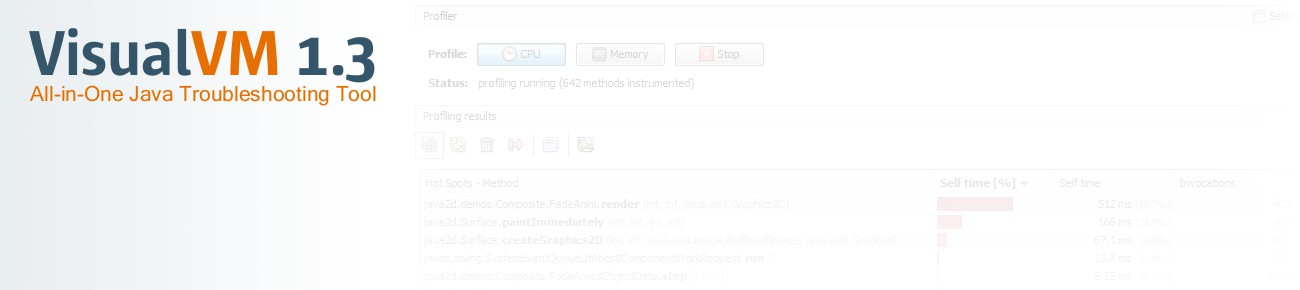
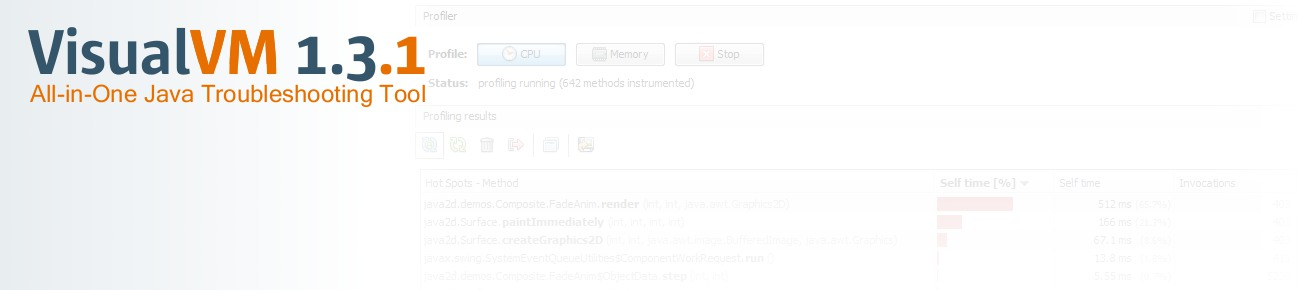
Releasing VisualVM 1.3.1

Changed region(s): [[0.0, 0.0931, 0.3385, 0.3724]]

diff --git a/trunk/www/relnotes13.html b/trunk/www/relnotes13.html
@@ -1,7 +1,7 @@
 <html>
 <head>
 
-    <title>VisualVM 1.3.1 Release Notes</title>
+    <title>VisualVM 1.3 Release Notes</title>
 
     <style>
 
@@ -42,14 +42,14 @@
     <div id="contents_contents">
         <div id="contents_main">
 
-            <h1>VisualVM 1.3.1 Release Notes</h1>
+            <h1>VisualVM 1.3 Release Notes</h1>
 
             <p>
                 VisualVM is a visual tool integrating several commandline JDK tools and lightweight profiling capabilities. Designed for both production and development time use, it further enhances the capability of monitoring and performance analysis for the Java SE platform.
             </p>
 
             <p style="margin-bottom: 15px;">
-                VisualVM 1.3.1 is a bugfix release based on VisualVM 1.3. See the <a href="#changes">Changes In 1.3.1</a> section for list of changes and bugfixes since the VisualVM 1.3.
+                VisualVM 1.3 is a stable release following after VisualVM 1.2.2. See the <a href="#changes">Changes In 1.3</a> section for list of changes and bugfixes since the VisualVM 1.2.2.
                 See the <a href="releases.html">Releases Overview</a> page for detailed overview of all VisualVM and Java VisualVM releases.
             </p>
 
@@ -98,82 +98,6 @@
             </div>
 
             <a name="changes"></a>
-            <h3>Changes In 1.3.1</h3>
-            <div>
-                <p style="margin-top: 5px;">
-                    <b>Features and enhancements:</b><br>
-                    <ul>
-                        <li>Added Java version and vendor information to the application Overview view
-                        </li>
-
-                        <li>Built on NetBeans Platform & profiler 6.9.1
-                        </li>
-                    </ul>
-                </p>
-
-                <p style="margin-top: 5px; margin-bottom: 10px;">
-                    <b>Fixed bugs:</b><br>
-                    <ul>
-                        <li><a href="https://visualvm.dev.java.net/issues/show_bug.cgi?id=397">Issue 397</a>: Overview tab does not have 'Details' and 'Saved data'
-                        </li>
-
-                        <li><a href="https://visualvm.dev.java.net/issues/show_bug.cgi?id=398">Issue 398</a>: BTrace probes are enabled for remote application
-                        </li>
-
-                        <li><a href="https://visualvm.dev.java.net/issues/show_bug.cgi?id=403">Issue 403</a>: [I18N] Show/Hide section checkbox tooltip not from bundle
-                        </li>
-
-                        <li><a href="https://visualvm.dev.java.net/issues/show_bug.cgi?id=405">Issue 405</a>: UnsupportedOperationException when opening remote application
-                        </li>
-
-                        <li><a href="https://visualvm.dev.java.net/issues/show_bug.cgi?id=406">Issue 406</a>: Confusing message in HeapWalker
-                        </li>
-
-                        <li><a href="https://visualvm.dev.java.net/issues/show_bug.cgi?id=407">Issue 407</a>: Bad Tracer charts quality
-                        </li>
-                    </ul>
-                </p>
-
-                <!--p style="margin-top: 5px; margin-bottom: 10px;">
-                    <b>Fixed bugs:</b> <a href="https://visualvm.dev.java.net/issues/buglist.cgi?Submit+query=Submit+query&issue_type=DEFECT&component=visualvm&resolution=FIXED&target_milestone=1.3.1&email1=&emailtype1=exact&emailassigned_to1=1&email2=&emailtype2=exact&emailreporter2=1&issueidtype=include&issue_id=&changedin=&votes=&chfield=creation_ts&chfieldfrom=&chfieldto=Now&chfieldvalue=&short_desc=&short_desc_type=fulltext&long_desc=&long_desc_type=fulltext&issue_file_loc=&issue_file_loc_type=fulltext&status_whiteboard=&status_whiteboard_type=fulltext&field0-0-0=noop&type0-0-0=noop&value0-0-0=&cmdtype=doit&order=Reuse+same+sort+as+last+time">IssueTracker query</a>.
-                </p-->
-            </div>
-
-            <a name="known_problems"></a>
-            <h3>Known Problems</h3>
-            <div>
-                <ul>
-                    <li><a href="https://visualvm.dev.java.net/issues/show_bug.cgi?id=224">Issue 224</a>: Cannot memory profile JBoss AS 4.2.3.GA
-                    </li>
-
-                    <li><a href="https://visualvm.dev.java.net/issues/show_bug.cgi?id=148">Issue 148</a>: VisualVM hangs when lost remote connection
-                    </li>
-
-                    <li><a href="https://visualvm.dev.java.net/issues/show_bug.cgi?id=120">Issue 120</a>: JMX application datasource cannot be reused on application restart
-                    </li>
-
-                    <li><a href="https://visualvm.dev.java.net/issues/show_bug.cgi?id=72">Issue 72</a>: Running application sometimes not recognized
-                    </li>
-                </ul>
-
-                <p>
-                    <b>Warning:</b> due to a JDK bug taking heap dump may crash the target JVM if it's running JDK 6 Update 16+ using Concurrent Mark Sweep garbage collector (CMS). A workaround is to use a different GC (for example using <code>-XX:+UseParallelGC</code>). Similar problem seems to affect also the JDK 7 devbuilds.
-                </p>
-
-                <p style="margin-bottom: 15px;">To view all known problems please use this <a href="https://visualvm.dev.java.net/issues/buglist.cgi?Submit+query=Submit+query&issue_type=DEFECT&component=visualvm&subcomponent=code&issue_status=NEW&issue_status=STARTED&issue_status=REOPENED&email1=&emailtype1=exact&emailassigned_to1=1&email2=&emailtype2=exact&emailreporter2=1&issueidtype=include&issue_id=&changedin=&votes=&chfieldfrom=&chfieldto=Now&chfieldvalue=&short_desc=&short_desc_type=fulltext&long_desc=&long_desc_type=fulltext&issue_file_loc=&issue_file_loc_type=fulltext&status_whiteboard=&status_whiteboard_type=fulltext&field0-0-0=noop&type0-0-0=noop&value0-0-0=&cmdtype=doit&newqueryname=&order=Reuse+same+sort+as+last+time">IssueTracker query</a>.
-                </p>
-            </div>
-
-            <br>
-            <hr>
-            <hr>
-            <br>
-            <br>
-
-            <a name="changeshistory"></a>
-            <h2>History of Changes</h2>
-            <br>
-
             <h3>Changes In 1.3</h3>
             <div>
                 <p style="margin-top: 5px;">
@@ -273,6 +197,41 @@
                     <b>Fixed bugs:</b> <a href="https://visualvm.dev.java.net/issues/buglist.cgi?Submit+query=Submit+query&issue_type=DEFECT&component=visualvm&resolution=FIXED&target_milestone=1.3&email1=&emailtype1=exact&emailassigned_to1=1&email2=&emailtype2=exact&emailreporter2=1&issueidtype=include&issue_id=&changedin=&votes=&chfield=creation_ts&chfieldfrom=&chfieldto=Now&chfieldvalue=&short_desc=&short_desc_type=fulltext&long_desc=&long_desc_type=fulltext&issue_file_loc=&issue_file_loc_type=fulltext&status_whiteboard=&status_whiteboard_type=fulltext&field0-0-0=noop&type0-0-0=noop&value0-0-0=&cmdtype=doit&order=Reuse+same+sort+as+last+time">IssueTracker query</a>.
                 </p>
             </div>
+
+            <a name="known_problems"></a>
+            <h3>Known Problems</h3>
+            <div>
+                <ul>
+                    <li><a href="https://visualvm.dev.java.net/issues/show_bug.cgi?id=224">Issue 224</a>: Cannot memory profile JBoss AS 4.2.3.GA
+                    </li>
+
+                    <li><a href="https://visualvm.dev.java.net/issues/show_bug.cgi?id=148">Issue 148</a>: VisualVM hangs when lost remote connection
+                    </li>
+
+                    <li><a href="https://visualvm.dev.java.net/issues/show_bug.cgi?id=120">Issue 120</a>: JMX application datasource cannot be reused on application restart
+                    </li>
+
+                    <li><a href="https://visualvm.dev.java.net/issues/show_bug.cgi?id=72">Issue 72</a>: Running application sometimes not recognized
+                    </li>
+                </ul>
+
+                <p>
+                    <b>Warning:</b> due to a JDK bug taking heap dump may crash the target JVM if it's running JDK 6 Update 16+ using Concurrent Mark Sweep garbage collector (CMS). A workaround is to use a different GC (for example using <code>-XX:+UseParallelGC</code>). Similar problem seems to affect also the JDK 7 devbuilds.
+                </p>
+
+                <p style="margin-bottom: 15px;">To view all known problems please use this <a href="https://visualvm.dev.java.net/issues/buglist.cgi?Submit+query=Submit+query&issue_type=DEFECT&component=visualvm&subcomponent=code&issue_status=NEW&issue_status=STARTED&issue_status=REOPENED&email1=&emailtype1=exact&emailassigned_to1=1&email2=&emailtype2=exact&emailreporter2=1&issueidtype=include&issue_id=&changedin=&votes=&chfieldfrom=&chfieldto=Now&chfieldvalue=&short_desc=&short_desc_type=fulltext&long_desc=&long_desc_type=fulltext&issue_file_loc=&issue_file_loc_type=fulltext&status_whiteboard=&status_whiteboard_type=fulltext&field0-0-0=noop&type0-0-0=noop&value0-0-0=&cmdtype=doit&newqueryname=&order=Reuse+same+sort+as+last+time">IssueTracker query</a>.
+                </p>
+            </div>
+
+            <br>
+            <hr>
+            <hr>
+            <br>
+            <br>
+
+            <a name="changeshistory"></a>
+            <h2>History of Changes</h2>
+            <br>
 
             <h3>Changes In 1.2.2</h3>
             <div>
@@ -554,7 +513,7 @@
         <h3 class="first">On This Page</h3>
         <div>
             <a href="#system_requirements">System Requirements</a>
-            <a href="#changes">Changes In 1.3.1</a>
+            <a href="#changes">Changes In 1.2.2</a>
             <a href="#known_problems">Known Problems</a>
             <a href="#changeshistory">History of Changes</a>
         </div>

diff --git a/trunk/www/build/build13.html b/trunk/www/build/build13.html
@@ -1,26 +1,15 @@
 <html>
 <head>
-<title>Build guide for VisualVM 1.3.1</title>
+<title>Build guide for VisualVM 1.3</title>
 <meta http-equiv="Content-Type" content="text/html; charset=iso-8859-1">
 </head>
 <body>
 <p>
-Build instructions for the latest stable version <b>VisualVM 1.3.1</b>. If you want to build different version use links below:
-<ul>
-    <li><a href="build/build.html">trunk</a></li>
-    <li><a href="build/build13.html">VisualVM 1.3</a></li>
-    <li><a href="build/build122.html">VisualVM 1.2.2</a></li>
-    <li><a href="build/build121.html">VisualVM 1.2.1</a></li>
-    <li><a href="build/build12.html">VisualVM 1.2</a></li>
-    <li><a href="build/build111.html">VisualVM 1.1.1</a></li>
-    <li><a href="build/build11.html">VisualVM 1.1</a></li>
-    <li><a href="build/build101.html">VisualVM 1.0.1</a></li>
-    <li><a href="build/build10.html">VisualVM 1.0</a></li>
-</ul>
+Build instructions for <b>VisualVM 1.3</b>.
 Check out source code with a CVS client using the following command. Note: replace <code>username</code> with your own username.<br>
 <code>cvs -d :pserver:username@cvs.dev.java.net:/cvs login</code><br>
 followed by<br>
-<code> cvs -d :pserver:username@cvs.dev.java.net:/cvs checkout -r release131 -P visualvm</code><br>
+<code> cvs -d :pserver:username@cvs.dev.java.net:/cvs checkout -r release13 -P visualvm</code><br>
 </p>
 
 <p>There are two suites:</p>
@@ -29,7 +18,7 @@ followed by<br>
 <li><b>plugins</b>: which contains the plugins available in the VisualVM Plugin Center.</li>
 </ul>
 
-<p>The layout in <a href="https://visualvm.dev.java.net/source/browse/visualvm/?only_with_tag=release131">CVS</a> for VisualVM 1.3.1 release is:</p>
+<p>The layout in <a href="https://visualvm.dev.java.net/source/browse/visualvm/?only_with_tag=release13">CVS</a> for VisualVM 1.3 release is:</p>
 <ul>
     <li>visualvm
         <ul>
@@ -40,8 +29,8 @@ followed by<br>
     </li>
 </ul>
 <p>
-To build the visualvm core tool you need the NetBeans 6.9.1 platform and profiler binaries available
-<a href="https://visualvm.dev.java.net/files/documents/7163/152734/nb691_visualvm_09092010.zip">here</a>.
+To build the visualvm core tool you need the NetBeans 6.9 platform and profiler binaries available
+<a href="https://visualvm.dev.java.net/files/documents/7163/151493/nb69_visualvm_14072010.zip">here</a>.
 These binaries must be extracted into the visualvm/visualvm directory. You can use <code>ant run</code>
 or <code>ant build-zip</code> to build or run VisualVM.
 </p>

diff --git a/trunk/www/download.html b/trunk/www/download.html
@@ -54,9 +54,9 @@
             <a name="download"></a>
             <h3>Download</h3>
             <div style="background: #f0f1f2; padding: 10px; padding-left: 20px; margin-bottom: 10px;">
-                <div><a href="https://visualvm.dev.java.net/files/documents/7163/151728/visualvm_13.zip"><span style="font-size: 14px; font-weight: bold;">VisualVM 1.3</span></a> (.zip, 11.3MB)<span style="margin-left: 15px; margin-right: 15px;">|</span>IDE integration: <a href="eclipse-launcher.html">Eclipse IDE</a></div>
-                <div style="padding-top: 5px;"><small><a href="https://visualvm.dev.java.net/files/documents/7163/151730/visualvm_13-ml.zip"><b>Multi-language</b></a> (.zip, 12.1MB, English / Japanese <img src="ja/images/japanese.png" style="border: 0px; vertical-align: bottom;"/> / Chinese <img src="zh_CN/images/simplified_chinese.png" style="border: 0px; vertical-align: bottom;"/>)</small></div>
-                <div><small><a href="https://visualvm.dev.java.net/files/documents/7163/151731/VisualVM_13.dmg"><b>Mac OS X Application Bundle</b></a> (.dmg, 13.0MB)</small></div>
+                <div><a href="https://visualvm.dev.java.net/files/documents/7163/152922/visualvm_131.zip"><span style="font-size: 14px; font-weight: bold;">VisualVM 1.3.1</span></a> (.zip, 11.3MB)<span style="margin-left: 15px; margin-right: 15px;">|</span>IDE integration: <a href="eclipse-launcher.html">Eclipse IDE</a></div>
+                <div style="padding-top: 5px;"><small><a href="https://visualvm.dev.java.net/files/documents/7163/152923/visualvm_131-ml.zip"><b>Multi-language</b></a> (.zip, 12.1MB, English / Japanese <img src="ja/images/japanese.png" style="border: 0px; vertical-align: bottom;"/> / Chinese <img src="zh_CN/images/simplified_chinese.png" style="border: 0px; vertical-align: bottom;"/>)</small></div>
+                <div><small><a href="https://visualvm.dev.java.net/files/documents/7163/152930/VisualVM_131.dmg"><b>Mac OS X Application Bundle</b></a> (.dmg, 13.1MB)</small></div>
             </div>
             
             <a style="clear: both;" name="first_steps"></a>

diff --git a/trunk/www/index.html b/trunk/www/index.html
@@ -50,6 +50,12 @@
             <div id="news" style="margin-bottom: 10px;">
                 <!-- Please always display 3 items here. The item to be removed should be archived on news.html -->
 
+                <p><span class="news_date">September 20th, 2010:</span> VisualVM 1.3.1 released. This release upgrades the
+                    underlying framework to the NetBeans Platform 6.9.1 and delivers several bugfixes. The tool can be
+                    downloaded from the <a href="download.html">Download</a> page, sources are available in
+                    <a href="https://visualvm.dev.java.net/source/browse/visualvm/visualvm/?only_with_tag=release131"><code>release131</code></a> branch.
+                </p>
+
                 <p><span class="news_date">September 7th, 2010:</span> VisualVM Harness 1.0 has been released to
                     simplify the build and packaging of OpenJDK. As of IcedTea6 1.9, VisualVM build support has been
                     replaced by the VisualVM Harness covering both VisualVM 1.2.2 (built on NetBeans Platform 6.8)
@@ -62,11 +68,6 @@
                     much more. The tool can be downloaded from the <a href="download.html">Download</a> page, sources are available in
                     <a href="https://visualvm.dev.java.net/source/browse/visualvm/visualvm/?only_with_tag=release13"><code>release13</code></a>
                     branch. See the <a href="relnotes.html">Release Notes</a> for more information.
-                </p>
-
-                <p><span class="news_date">July 7th, 2010:</span> JDK 6 Update 21 released, it contains Java VisualVM tool
-                    based on the VisualVM 1.2.2. Latest JDK 6 update from Oracle can be downloaded
-                    <a href="http://java.sun.com/javase/downloads/index.jsp">here</a>.
                 </p>
 
                 <p class="previous_link"><a href="news.html">news archive</a>

diff --git a/trunk/www/releases.html b/trunk/www/releases.html
@@ -80,11 +80,21 @@
 
                         <tr>
                             <td>
-                                <div><b>VisualVM 1.3</b><br><small style="margin-left: 10px;">Released: July 26th, 2010, <a href="https://visualvm.dev.java.net/files/documents/7163/151728/visualvm_13.zip">Download</a> (<a href="https://visualvm.dev.java.net/files/documents/7163/151730/visualvm_13-ml.zip">ml</a>), <a href="relnotes.html">Release Notes</a></small></div>
+                                <div><b>VisualVM 1.3.1</b><br><small style="margin-left: 10px;">Released: September 20th, 2010, <a href="https://visualvm.dev.java.net/files/documents/7163/152922/visualvm_131.zip">Download</a> (<a href="https://visualvm.dev.java.net/files/documents/7163/152923/visualvm_131-ml.zip">ml</a>), <a href="relnotes.html">Release Notes</a></small></div>
                             </td>
 
                             <td>
                                 <div>not released yet</div>
+                            </td>
+                        </tr>
+
+                        <tr>
+                            <td>
+                                <div><b>VisualVM 1.3</b><br><small style="margin-left: 10px;">Released: July 26th, 2010, <a href="https://visualvm.dev.java.net/files/documents/7163/151728/visualvm_13.zip">Download</a> (<a href="https://visualvm.dev.java.net/files/documents/7163/151730/visualvm_13-ml.zip">ml</a>), <a href="relnotes13.html">Release Notes</a></small></div>
+                            </td>
+
+                            <td>
+                                <div>not released</div>
                             </td>
                         </tr>
 

diff --git a/trunk/www/pluginscenters.html b/trunk/www/pluginscenters.html
@@ -108,6 +108,16 @@
 
                             <tr>
                                 <td class="release">
+                                    <div><b>VisualVM 1.3.1</b></div>
+                                </td>
+
+                                <td class="plugincenter">
+                                    <div><small><a href="http://www.netbeans.info/uc/show_uc_content.php?ucurl=http://bits.netbeans.org/VisualVM/uc/release131/updates.xml">https://visualvm.dev.java.net/uc/release131/updates.xml.gz</a></small></div>
+                                </td>
+                            </tr>
+
+                            <tr>
+                                <td class="release">
                                     <div><b>VisualVM 1.3</b></div>
                                 </td>
 

diff --git a/trunk/www/news.html b/trunk/www/news.html
@@ -72,6 +72,11 @@
             <h3>News</h3>
             <div id="news">
 
+                <p><span class="news_date">July 7th, 2010:</span> JDK 6 Update 21 released, it contains Java VisualVM tool
+                    based on the VisualVM 1.2.2. Latest JDK 6 update from Oracle can be downloaded
+                    <a href="http://java.sun.com/javase/downloads/index.jsp">here</a>.
+                </p>
+
                 <p><span class="news_date">March 25th, 2010:</span> SA plugin
                     has been released on VisualVM 1.2.2 Plugins Center. SA Plugin makes Serviceability Agent's features and
                     utilities available in VisualVM. Serviceability Agent is an out-of-process snapshot debugger for Hotspot

diff --git a/trunk/www/troubleshooting.html b/trunk/www/troubleshooting.html
@@ -57,7 +57,7 @@
     <div id="contents_contents">
         <div id="contents_main">
 
-            <h1>VisualVM 1.3 Troubleshooting Guide</h1>
+            <h1>VisualVM 1.3.1 Troubleshooting Guide</h1>
 
             <p style="margin-bottom: 15px;">
                 This document describes the most common problems related to using VisualVM and information on how to fix or workaround the problems.
